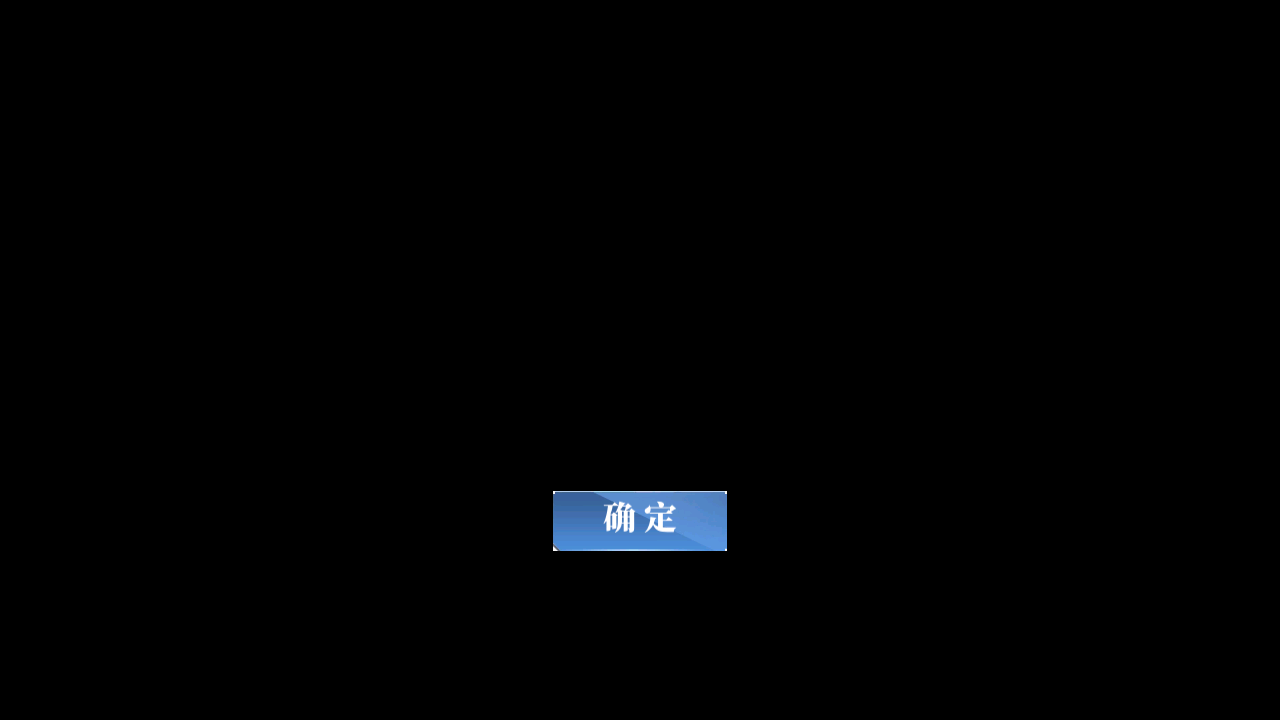
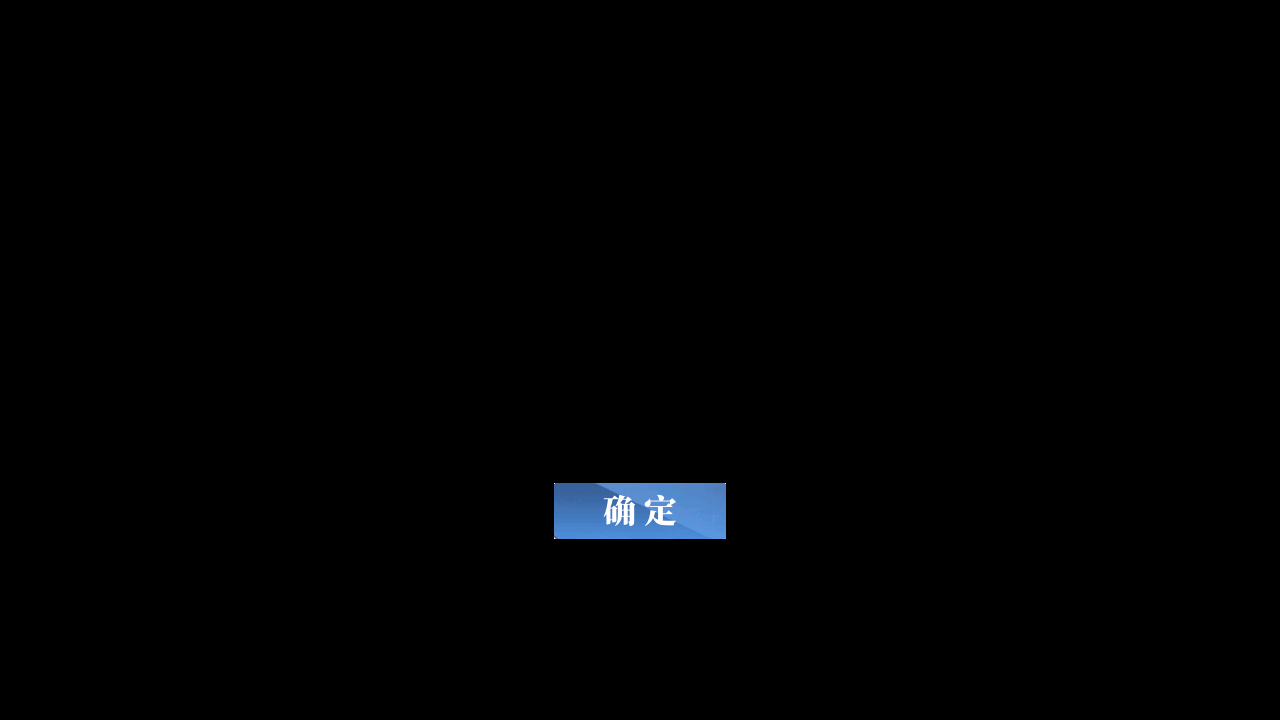
Fix: [CN] GET_MISSION

Changed region(s): [[0.4062, 0.6722, 0.5938, 0.7639]]

diff --git a/module/handler/assets.py b/module/handler/assets.py
@@ -24,7 +24,7 @@ FORMATION_3 = Button(area={'cn': (1108, 415, 1170, 477), 'en': (1108, 415, 1170,
 FORMATION_LOCATION = Button(area={'cn': (145, 115, 437, 159), 'en': (145, 115, 437, 159), 'jp': (145, 115, 437, 159), 'tw': (145, 115, 437, 159)}, color={'cn': (103, 118, 118), 'en': (103, 118, 118), 'jp': (103, 118, 118), 'tw': (103, 118, 118)}, button={'cn': (145, 115, 437, 159), 'en': (145, 115, 437, 159), 'jp': (145, 115, 437, 159), 'tw': (145, 115, 437, 159)}, file={'cn': './assets/cn/handler/FORMATION_LOCATION.png', 'en': './assets/en/handler/FORMATION_LOCATION.png', 'jp': './assets/jp/handler/FORMATION_LOCATION.png', 'tw': './assets/tw/handler/FORMATION_LOCATION.png'})
 GAME_TIPS = Button(area={'cn': (994, 577, 1019, 607), 'en': (994, 577, 1019, 607), 'jp': (994, 577, 1019, 607), 'tw': (994, 577, 1019, 607)}, color={'cn': (111, 110, 110), 'en': (111, 110, 110), 'jp': (111, 110, 110), 'tw': (111, 110, 110)}, button={'cn': (924, 653, 943, 672), 'en': (924, 653, 943, 672), 'jp': (924, 653, 943, 672), 'tw': (924, 653, 943, 672)}, file={'cn': './assets/cn/handler/GAME_TIPS.png', 'en': './assets/en/handler/GAME_TIPS.png', 'jp': './assets/jp/handler/GAME_TIPS.png', 'tw': './assets/tw/handler/GAME_TIPS.png'})
 GET_AMMO = Button(area={'cn': (792, 315, 794, 333), 'en': (792, 315, 794, 333), 'jp': (792, 315, 794, 333), 'tw': (792, 315, 794, 333)}, color={'cn': (251, 250, 255), 'en': (251, 250, 255), 'jp': (251, 250, 255), 'tw': (251, 250, 255)}, button={'cn': (792, 315, 794, 333), 'en': (792, 315, 794, 333), 'jp': (792, 315, 794, 333), 'tw': (792, 315, 794, 333)}, file={'cn': './assets/cn/handler/GET_AMMO.png', 'en': './assets/en/handler/GET_AMMO.png', 'jp': './assets/jp/handler/GET_AMMO.png', 'tw': './assets/tw/handler/GET_AMMO.png'})
-GET_MISSION = Button(area={'cn': (553, 491, 727, 551), 'en': (553, 481, 727, 541), 'jp': (555, 485, 723, 536), 'tw': (552, 481, 727, 540)}, color={'cn': (96, 144, 204), 'en': (105, 151, 208), 'jp': (96, 145, 205), 'tw': (95, 143, 203)}, button={'cn': (553, 491, 727, 551), 'en': (553, 481, 727, 541), 'jp': (555, 485, 723, 536), 'tw': (552, 481, 727, 540)}, file={'cn': './assets/cn/handler/GET_MISSION.png', 'en': './assets/en/handler/GET_MISSION.png', 'jp': './assets/jp/handler/GET_MISSION.png', 'tw': './assets/tw/handler/GET_MISSION.png'})
+GET_MISSION = Button(area={'cn': (554, 483, 726, 539), 'en': (553, 481, 727, 541), 'jp': (555, 485, 723, 536), 'tw': (552, 481, 727, 540)}, color={'cn': (93, 142, 203), 'en': (105, 151, 208), 'jp': (96, 145, 205), 'tw': (95, 143, 203)}, button={'cn': (554, 483, 726, 539), 'en': (553, 481, 727, 541), 'jp': (555, 485, 723, 536), 'tw': (552, 481, 727, 540)}, file={'cn': './assets/cn/handler/GET_MISSION.png', 'en': './assets/en/handler/GET_MISSION.png', 'jp': './assets/jp/handler/GET_MISSION.png', 'tw': './assets/tw/handler/GET_MISSION.png'})
 GUILD_POPUP_CANCEL = Button(area={'cn': (422, 449, 623, 486), 'en': (425, 452, 620, 483), 'jp': (426, 452, 618, 484), 'tw': (422, 449, 623, 486)}, color={'cn': (127, 125, 127), 'en': (125, 123, 125), 'jp': (121, 120, 121), 'tw': (127, 125, 127)}, button={'cn': (422, 449, 623, 486), 'en': (425, 452, 620, 483), 'jp': (426, 452, 618, 484), 'tw': (422, 449, 623, 486)}, file={'cn': './assets/cn/handler/GUILD_POPUP_CANCEL.png', 'en': './assets/en/handler/GUILD_POPUP_CANCEL.png', 'jp': './assets/jp/handler/GUILD_POPUP_CANCEL.png', 'tw': './assets/tw/handler/GUILD_POPUP_CANCEL.png'})
 GUILD_POPUP_CONFIRM = Button(area={'cn': (655, 450, 856, 487), 'en': (658, 453, 853, 484), 'jp': (661, 453, 852, 485), 'tw': (655, 450, 856, 487)}, color={'cn': (90, 121, 217), 'en': (81, 114, 215), 'jp': (86, 118, 209), 'tw': (90, 121, 217)}, button={'cn': (655, 450, 856, 487), 'en': (658, 453, 853, 484), 'jp': (661, 453, 852, 485), 'tw': (655, 450, 856, 487)}, file={'cn': './assets/cn/handler/GUILD_POPUP_CONFIRM.png', 'en': './assets/en/handler/GUILD_POPUP_CONFIRM.png', 'jp': './assets/jp/handler/GUILD_POPUP_CONFIRM.png', 'tw': './assets/tw/handler/GUILD_POPUP_CONFIRM.png'})
 INFO_BAR_1 = Button(area={'cn': (194, 297, 1086, 299), 'en': (194, 297, 1086, 299), 'jp': (194, 297, 1086, 299), 'tw': (194, 297, 1086, 299)}, color={'cn': (107, 158, 255), 'en': (107, 158, 255), 'jp': (107, 158, 255), 'tw': (107, 158, 255)}, button={'cn': (194, 297, 1086, 299), 'en': (194, 297, 1086, 299), 'jp': (194, 297, 1086, 299), 'tw': (194, 297, 1086, 299)}, file={'cn': './assets/cn/handler/INFO_BAR_1.png', 'en': './assets/en/handler/INFO_BAR_1.png', 'jp': './assets/jp/handler/INFO_BAR_1.png', 'tw': './assets/tw/handler/INFO_BAR_1.png'})
